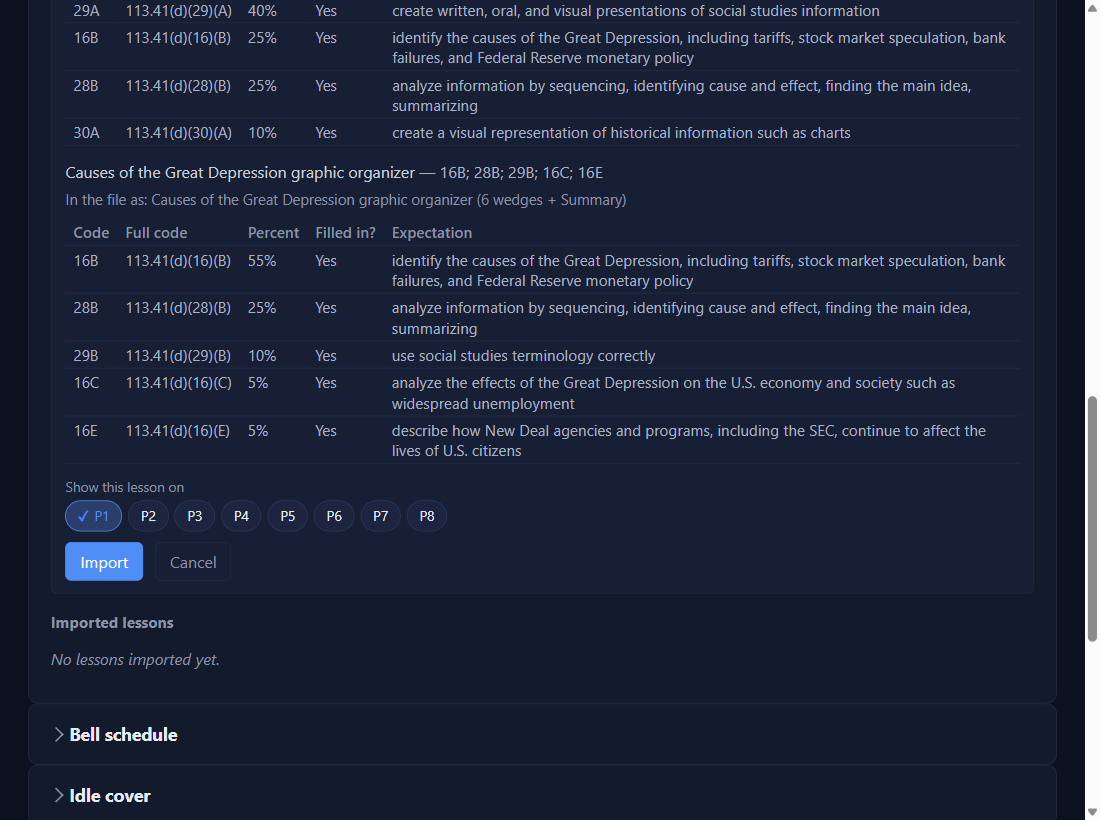
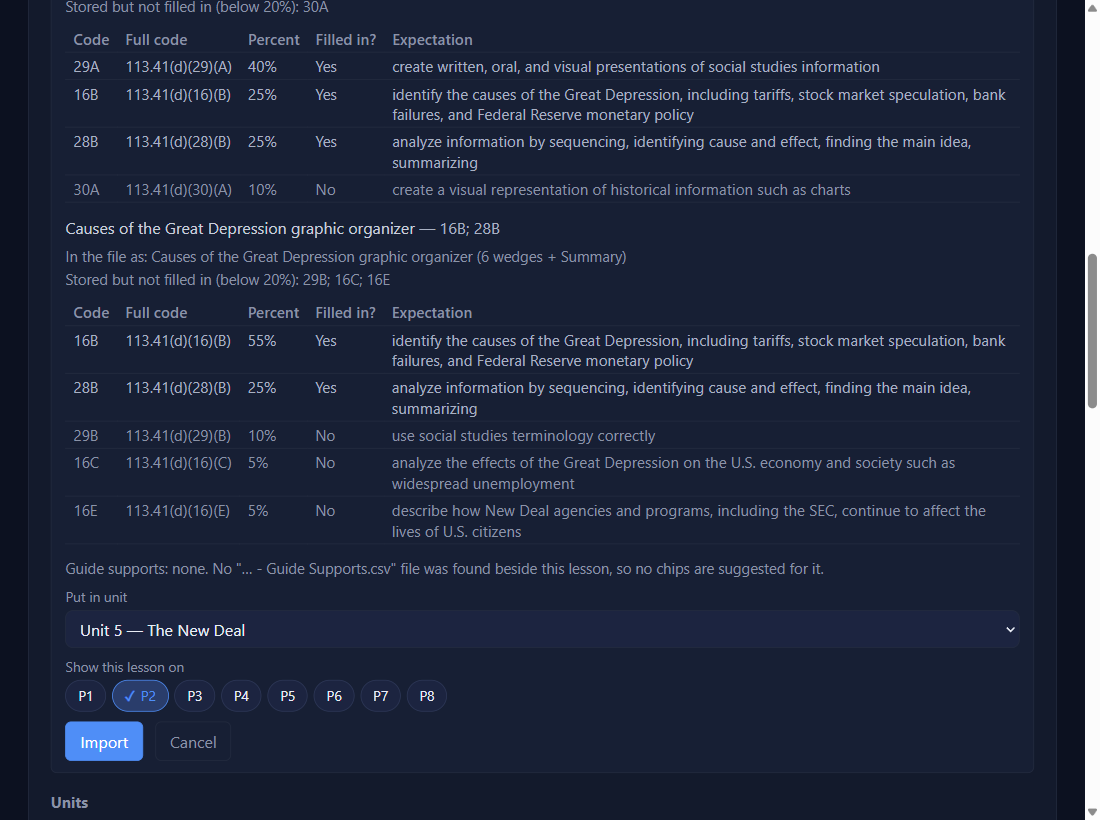
Lessons for 0.4.22: units, Put in unit, the three-step Lesson activity pop-up, several activities per visit
New lesson units.html (Organize lessons into units). Import a lesson updated with new
pictures; August notes the backup-folder message. Stamp ?v=20261029a; 30 lessons.

diff --git a/index.html b/index.html
@@ -186,7 +186,7 @@
 <div class="hero">
   <div class="hero-inner">
     <div>
-      <div class="eyebrow"><span class="dot"></span>Matches SpEd Log Pro 0.4.21</div>
+      <div class="eyebrow"><span class="dot"></span>Matches SpEd Log Pro 0.4.22</div>
       <h1>Log the day in minutes.<br><span class="grad">Paste the service log in seconds.</span></h1>
       <p class="lede">Short, picture-by-picture lessons for every job in SpEd Log Pro, with the exact spot to click
          circled in red. Start with setup, or jump straight to what you need today.</p>
@@ -226,7 +226,7 @@
   <div class="stat"><div class="big">1 click</div><p>to save a whole class for the day</p></div>
   <div class="stat"><div class="big">1 paste</div><p>per student per week into the real service log</p></div>
   <div class="stat"><div class="big">0 bytes</div><p>leave your computer. No internet, no accounts</p></div>
-  <div class="stat"><div class="big">29</div><p>bite-size lessons, each with real screenshots</p></div>
+  <div class="stat"><div class="big">30</div><p>bite-size lessons, each with real screenshots</p></div>
 </div>
 
 <section class="wrap" id="start">
@@ -261,7 +261,7 @@
       <ul><li><a href="lessons/add-students.html">Add a student</a> <small>3 min</small></li><li><a href="lessons/two-classes.html">A student in two classes</a> <small>5 min</small></li><li><a href="lessons/leaves.html">Leaves or comes back</a> <small>4 min</small></li></ul></div>
     <div class="tile t-purple" href="#"><div class="ic"><svg width="22" height="22" viewBox="0 0 24 24" fill="none" stroke="currentColor" stroke-width="2.2"><circle cx="12" cy="12" r="9"/><circle cx="12" cy="12" r="5"/><circle cx="12" cy="12" r="1"/></svg></div>
       <h3>Goals</h3><p>Track progress without the paperwork.</p>
-      <ul><li><a href="lessons/goal-setup.html">Set up goal tracking</a> <small>6 min</small></li><li><span><a href="lessons/goal-project.html">Set up a Goal Setup project</a><span class="newburst" title="New in version 0.4.20"><span class="burst">NEW</span><small>for version 0.4.20 and beyond</small></span></span> <small>5 min</small></li><li><span><a href="lessons/goal-import.html">Import a goal setup</a><span class="newburst" title="New in version 0.4.20"><span class="burst">NEW</span><small>for version 0.4.20 and beyond</small></span></span> <small>3 min</small></li><li><span><a href="lessons/goal-writer.html">Write a measurable goal</a><span class="newburst" title="New in version 0.4.21"><span class="burst">NEW</span><small>for version 0.4.21 and beyond</small></span></span> <small>5 min</small></li><li><a href="lessons/progress.html">Record progress</a> <small>3 min</small></li><li><span><a href="lessons/progress-report.html">Write a progress report</a><span class="newburst" title="New in version 0.4.21"><span class="burst">NEW</span><small>for version 0.4.21 and beyond</small></span></span> <small>2 min</small></li><li><span><a href="lessons/fix-progress.html">Fix or delete recorded progress</a><span class="newburst" title="New in version 0.4.21"><span class="burst">NEW</span><small>for version 0.4.21 and beyond</small></span></span> <small>1 min</small></li><li><a href="lessons/import-lesson.html">Import a lesson</a> <small>4 min</small></li><li><span><a href="lessons/builder.html">Set up the Leveled Guide Builder</a><span class="newburst" title="New in version 0.4.18"><span class="burst">NEW</span><small>for version 0.4.18 and beyond</small></span></span> <small>10 min</small></li><li><span><a href="lessons/guides-setup.html">Leveled guides: set up</a><span class="newburst" title="New in version 0.4.18"><span class="burst">NEW</span><small>for version 0.4.18 and beyond</small></span></span> <small>4 min</small></li><li><span><a href="lessons/guides-day.html">Leveled guides: log the day</a><span class="newburst" title="New in version 0.4.18"><span class="burst">NEW</span><small>for version 0.4.18 and beyond</small></span></span> <small>3 min</small></li></ul></div>
+      <ul><li><a href="lessons/goal-setup.html">Set up goal tracking</a> <small>6 min</small></li><li><span><a href="lessons/goal-project.html">Set up a Goal Setup project</a><span class="newburst" title="New in version 0.4.20"><span class="burst">NEW</span><small>for version 0.4.20 and beyond</small></span></span> <small>5 min</small></li><li><span><a href="lessons/goal-import.html">Import a goal setup</a><span class="newburst" title="New in version 0.4.20"><span class="burst">NEW</span><small>for version 0.4.20 and beyond</small></span></span> <small>3 min</small></li><li><span><a href="lessons/goal-writer.html">Write a measurable goal</a><span class="newburst" title="New in version 0.4.21"><span class="burst">NEW</span><small>for version 0.4.21 and beyond</small></span></span> <small>5 min</small></li><li><a href="lessons/progress.html">Record progress</a> <small>3 min</small></li><li><span><a href="lessons/progress-report.html">Write a progress report</a><span class="newburst" title="New in version 0.4.21"><span class="burst">NEW</span><small>for version 0.4.21 and beyond</small></span></span> <small>2 min</small></li><li><span><a href="lessons/fix-progress.html">Fix or delete recorded progress</a><span class="newburst" title="New in version 0.4.21"><span class="burst">NEW</span><small>for version 0.4.21 and beyond</small></span></span> <small>1 min</small></li><li><a href="lessons/import-lesson.html">Import a lesson</a> <small>5 min</small></li><li><span><a href="lessons/units.html">Organize lessons into units</a><span class="newburst" title="New in version 0.4.22"><span class="burst">NEW</span><small>for version 0.4.22 and beyond</small></span></span> <small>3 min</small></li><li><span><a href="lessons/builder.html">Set up the Leveled Guide Builder</a><span class="newburst" title="New in version 0.4.18"><span class="burst">NEW</span><small>for version 0.4.18 and beyond</small></span></span> <small>10 min</small></li><li><span><a href="lessons/guides-setup.html">Leveled guides: set up</a><span class="newburst" title="New in version 0.4.18"><span class="burst">NEW</span><small>for version 0.4.18 and beyond</small></span></span> <small>4 min</small></li><li><span><a href="lessons/guides-day.html">Leveled guides: log the day</a><span class="newburst" title="New in version 0.4.18"><span class="burst">NEW</span><small>for version 0.4.18 and beyond</small></span></span> <small>3 min</small></li></ul></div>
     <div class="tile t-red" href="#"><div class="ic"><svg width="22" height="22" viewBox="0 0 24 24" fill="none" stroke="currentColor" stroke-width="2.2"><rect x="3" y="4" width="18" height="17" rx="2"/><path d="M16 2v4M8 2v4M3 10h18"/></svg></div>
       <h3>When the IEP changes</h3><p>ARDs, minutes, accommodations.</p>
       <ul><li><a href="lessons/ard.html">Enter an ARD change</a> <small>4 min</small></li><li><a href="lessons/accommodations.html">Edit accommodations</a> <small>3 min</small></li><li><a href="lessons/ard.html">Next ARD date</a> <small>1 min</small></li></ul></div>
@@ -280,11 +280,11 @@
 </div>
 
 <footer><div class="in">
-  <span>© 2026 J. Scott. All rights reserved. · SpEd Log Pro Training, for SpEd Log Pro 0.4.21 · all students shown are made up</span>
+  <span>© 2026 J. Scott. All rights reserved. · SpEd Log Pro Training, for SpEd Log Pro 0.4.22 · all students shown are made up</span>
   <span>Questions? Ask the person who sent you this link.</span>
 </div></footer>
 
-<script src="assets/lessons.js?v=20261025a"></script>
+<script src="assets/lessons.js?v=20261029a"></script>
 <script>
   // 60-second tour: each frame shows a real screenshot with the click circled in red.
   const frames = [
@@ -320,7 +320,7 @@
     ['Minutes report', 'Paste & report', 'minutes compliance short adjusted full period print pdf', 'lessons/minutes.html'], ['Accommodations report', 'Paste & report', 'declined accommodations used when offered delivered days present print pdf ARD', 'lessons/acc-report.html'],
     ['Your roster: make it, download it, drop it in', 'Start here', 'roster csv sheet download folder columns headings', 'lessons/roster.html'], ['A student in two classes', 'Students', 'two classes co-teach suffix period', 'lessons/two-classes.html'],
     ['Student leaves or comes back', 'Students', 'remove restore archive move period', 'lessons/leaves.html'], ['Set up goal tracking', 'Goals', 'goal TEKS mastery checklist rubric trial fraction goal check annual ARD one method', 'lessons/goal-setup.html'],
-    ['Set up a Goal Setup project', 'Goals', 'goal setup teks finder codes claude project ai prompt csv checklist rubric goal check how to track', 'lessons/goal-project.html', '0.4.20'], ['Import a goal setup', 'Goals', 'import goal setup csv gear file claude new goal new count', 'lessons/goal-import.html', '0.4.20'], ['Write a measurable goal', 'Goals', 'PLAAFP goal writer write IEP goal measurable claude project prompt ARD data sheet', 'lessons/goal-writer.html', '0.4.21'], ['Record goal progress', 'Goals', 'alert flag progress trials open alerts work through all score later waiting skip look for goal check none of these yet new goal new count record progress', 'lessons/progress.html'], ['Write a progress report', 'Goals', 'progress report statement copy percentage last 5 reminder', 'lessons/progress-report.html', '0.4.21'], ['Fix or delete recorded progress', 'Goals', 'delete fix undo mistake wrong progress entry typo', 'lessons/fix-progress.html', '0.4.21'], ['Import a lesson', 'Goals', 'lesson csv TEKS activity look for', 'lessons/import-lesson.html'],
+    ['Set up a Goal Setup project', 'Goals', 'goal setup teks finder codes claude project ai prompt csv checklist rubric goal check how to track', 'lessons/goal-project.html', '0.4.20'], ['Import a goal setup', 'Goals', 'import goal setup csv gear file claude new goal new count', 'lessons/goal-import.html', '0.4.20'], ['Write a measurable goal', 'Goals', 'PLAAFP goal writer write IEP goal measurable claude project prompt ARD data sheet', 'lessons/goal-writer.html', '0.4.21'], ['Record goal progress', 'Goals', 'alert flag progress trials open alerts work through all score later waiting skip look for goal check none of these yet new goal new count record progress', 'lessons/progress.html'], ['Write a progress report', 'Goals', 'progress report statement copy percentage last 5 reminder', 'lessons/progress-report.html', '0.4.21'], ['Fix or delete recorded progress', 'Goals', 'delete fix undo mistake wrong progress entry typo', 'lessons/fix-progress.html', '0.4.21'], ['Import a lesson', 'Goals', 'lesson csv TEKS activity look for put in unit pick several activities added done', 'lessons/import-lesson.html'], ['Organize lessons into units', 'Goals', 'unit units organize group lessons long list rename delete unit newest first', 'lessons/units.html', '0.4.22'],
     ['Set up the Leveled Guide Builder', 'Goals', 'leveled guide builder claude project prompt maker custom teks pdf math english science look for', 'lessons/builder.html', '0.4.18'],
     ['Leveled guides: set up', 'Goals', 'leveled guide supports level builder csv word bank', 'lessons/guides-setup.html', '0.4.18'], ['Leveled guides: log the day', 'Goals', 'leveled guide level L1 L2 L3 large print dot accommodations', 'lessons/guides-day.html', '0.4.18'],
     ['Enter an ARD change', 'When the IEP changes', 'ARD minutes service type paste sheets', 'lessons/ard.html'], ['Edit accommodations', 'When the IEP changes', 'accommodations remove add', 'lessons/accommodations.html'],

diff --git a/lessons/import-lesson.html b/lessons/import-lesson.html
@@ -5,7 +5,7 @@
 <meta name="viewport" content="width=device-width, initial-scale=1">
 <meta name="robots" content="noindex, nofollow">
 <title>Import a lesson · SpEd Log Pro Training</title>
-<link rel="stylesheet" href="../assets/lesson.css?v=20261025a">
+<link rel="stylesheet" href="../assets/lesson.css?v=20261029a">
 </head>
 <body data-lesson="lessons">
 <header class="top">
@@ -30,31 +30,41 @@
       <div class="fig" data-pens="702,330,318,14;701,520,318,14"><img class="shot" src="../images/n-les-5.png" alt="Look for lines in the preview"></div>
     </div></div>
     <div class="step"><div class="num">2</div><div>
-      <h3>Tick the periods that teach it, then Import</h3>
-      <p>Under <b>Show this lesson on</b>, tick at least one period. You can tick more later under Imported lessons.</p>
-      <div class="fig" data-pens="94,516,38,22;104,561,51,27"><img class="shot" src="../images/n-les-2.png" alt="Show this lesson on"></div>
+      <h3>Choose its unit, tick the periods that teach it, then Import</h3>
+      <p><b>Put in unit</b><span class="newburst" title="New in version 0.4.22"><span class="burst">NEW</span><small>for version 0.4.22 and beyond</small></span> starts on the unit of the lesson you imported last; change it if this lesson belongs elsewhere (see <a href="units.html">Organize lessons into units</a>). Under <b>Show this lesson on</b>, tick at least one period. You can tick more later under Imported lessons.</p>
+      <div class="fig" data-pens="542,629,485,25;140,696,34,20;104,741,45,24"><img class="shot" src="../images/n-les-2.png" alt="Put in unit and Show this lesson on"></div>
     </div></div>
     <div class="step"><div class="num">3</div><div>
-      <h3>On the period page: Lesson activity…</h3>
-      <p>Click <b>Lesson activity…</b>, then click the activity. Each shows the codes it fills in.</p>
-      <div class="fig" data-pens="511,242,84,27;542,391,293,35"><img class="shot" src="../images/n-les-3.png" alt="Picking an activity"></div>
+      <h3>On the period page: Lesson activity…, then a unit</h3>
+      <p>Click <b>Lesson activity…</b>.<span class="newburst" title="New in version 0.4.22"><span class="burst">NEW</span><small>for version 0.4.22 and beyond</small></span> It opens on <b>Pick a unit</b>: the units with a lesson for this period, newest first, and <b>No unit</b> last.</p>
+      <div class="fig" data-pens="542,300,289,34"><img class="shot" src="../images/n-les-3.png" alt="Pick a unit"></div>
     </div></div>
     <div class="step"><div class="num">4</div><div>
+      <h3>Pick the lesson</h3>
+      <p>The line under the title shows where you are; click <b>Units</b> in it, or <b>Back</b>, to go back. Each topic is a small grey heading, with Learn It, Comprehend It, then Apply It.</p>
+      <div class="fig" data-pens="542,304,289,14;542,390,289,34;290,546,37,24"><img class="shot" src="../images/n-les-6.png" alt="Pick a lesson"></div>
+    </div></div>
+    <div class="step"><div class="num">5</div><div>
+      <h3>Click each activity you want, then Done</h3>
+      <p>Each activity shows the codes it fills in. Click one and it's added right away; the pop-up <b>stays open</b> and marks it <b>✓ Added</b>, so you can click more, or go Back to another lesson.<span class="newburst" title="New in version 0.4.22"><span class="burst">NEW</span><small>for version 0.4.22 and beyond</small></span> Click <b>Done</b> when you're finished.</p>
+      <div class="fig" data-pens="467,359,41,16;451,441,41,16;792,615,40,24"><img class="shot" src="../images/n-les-7.png" alt="Two activities added"></div>
+    </div></div>
+    <div class="step"><div class="num">6</div><div>
       <h3>The boxes fill in; check them and Save</h3>
-      <p>The activity is <b>added</b> to the Activity boxes and its codes to the TEKS box. Nothing is saved until you click <b>Save</b>.</p>
-      <div class="fig" data-pens="245,242,190,24;727,242,140,24;228,193,92,27"><img class="shot" src="../images/n-les-4.png" alt="Filled in"></div>
+      <p>Each activity is <b>added</b> to the Activity boxes (after a <code>;</code>) and its codes to the TEKS box. Nothing is saved until you click <b>Save</b>.</p>
+      <div class="fig" data-pens="245,242,186,23;727,242,136,23;228,193,86,24"><img class="shot" src="../images/n-les-4.png" alt="Filled in"></div>
     </div></div>
 
     <div class="grid3">
-      <div class="box ok"><h4>✓ You'll know it worked</h4><ul><li><code>Imported "The New Deal - Learn It": 3 activities, 13 codes. Shows on P1.</code></li><li>Picking fills the Activity and TEKS boxes.</li></ul></div>
-      <div class="box bad"><h4>✕ Avoid these</h4><ul><li><b>No period ticked.</b> Import is refused until one is.</li><li><b>Expecting it to replace what you typed.</b> It adds after a <code>;</code>.</li></ul></div>
+      <div class="box ok"><h4>✓ You'll know it worked</h4><ul><li><code>Imported "The New Deal - Learn It": 3 activities, 13 codes. In Unit 5 — The New Deal. Shows on P2.</code></li><li>Picking fills the Activity and TEKS boxes.</li></ul></div>
+      <div class="box bad"><h4>✕ Avoid these</h4><ul><li><b>No period ticked.</b> Import is refused until one is.</li><li><b>Expecting it to replace what you typed.</b> It adds after a <code>;</code>.</li><li><b>Clicking Cancel or Done to undo a pick.</b> They only close the pop-up; delete the text from the box instead.</li></ul></div>
       <div class="box msg"><h4>⚠ If you see this</h4><q>Not imported: "…" has 2 problems. Nothing was saved.</q>Each problem is listed by line number. Fix the file and import again.<q>No lessons for Period … yet.</q>Tick that period for a lesson in Settings → Lesson activities.</div>
     </div>
     <label class="done-row"><input type="checkbox" id="did"> <span><b>I did this.</b> Ticks this lesson off in the menu (saved in this browser only).</span></label>
     <div class="navbtns" id="lesson-nav"></div>
   </main>
 </div>
-<script src="../assets/lessons.js?v=20261025a"></script>
-<script src="../assets/lesson.js?v=20261025a"></script>
+<script src="../assets/lessons.js?v=20261029a"></script>
+<script src="../assets/lesson.js?v=20261029a"></script>
 </body>
 </html>

diff --git a/lessons/units.html b/lessons/units.html
@@ -1,0 +1,57 @@
+<!doctype html>
+<html lang="en">
+<head>
+<meta charset="utf-8">
+<meta name="viewport" content="width=device-width, initial-scale=1">
+<meta name="robots" content="noindex, nofollow">
+<title>Organize lessons into units · SpEd Log Pro Training</title>
+<link rel="stylesheet" href="../assets/lesson.css?v=20261029a">
+</head>
+<body data-lesson="units">
+<header class="top">
+  <a class="logo" href="../"><span class="mark"><i></i><i></i><i></i><i></i></span>SpEd <b>Log</b> Pro <span style="font-weight:500;opacity:.7">Training</span></a>
+  <a class="mini-search" href="../" style="text-decoration:none">🔍 Search lessons…</a>
+</header>
+<div class="layout">
+  <aside id="menu"></aside>
+  <main>
+    <div class="hero">
+      <button class="print" onclick="window.print()">🖨 Print this lesson</button>
+      <div class="crumbs">Goals</div>
+      <h1>Organize lessons into <span>units</span></h1>
+      <div class="facts"><span class="fact">⏱ About 3 minutes</span><span class="fact">🔁 Once per unit</span><span class="fact">You need: a few imported lessons</span></div>
+    </div>
+    <div class="why"><b>Why:</b> as the year goes on, the lesson list gets long. Units group your lessons, and the newest unit (highest number) is always at the top, so the unit you're teaching now is the first thing you see in <b>Lesson activity…</b>. Haven't imported a lesson yet? Start with <a href="import-lesson.html">Import a lesson</a>.</div>
+    <div class="step"><div class="num">1</div><div>
+      <h3>Settings → Lesson activities → Units: Add unit</h3>
+      <p>Type the unit's number (1 to 99) and, if you like, its name, then click <b>Add unit</b>. The name is optional: with none it's just <code>Unit 6</code>. The new unit shows at the top of <b>Imported lessons</b>, saying it has no lessons yet.</p>
+      <div class="fig" data-pens="542,119,502,26;542,156,502,17;542,246,495,30"><img class="shot" src="../images/n-unit-1.png" alt="Add unit"></div>
+    </div></div>
+    <div class="step"><div class="num">2</div><div>
+      <h3>Put each lesson in its unit</h3>
+      <p>Every lesson has a <b>Unit</b> dropdown on its title bar. Choose the unit, and the lesson moves there right away. Its period ticks and activities don't change. Lessons you had before units start in <b>No unit</b>, at the bottom.</p>
+      <div class="fig" data-pens="542,48,502,17;459,552,122,23"><img class="shot" src="../images/n-unit-2.png" alt="A lesson's Unit dropdown"></div>
+    </div></div>
+    <div class="step"><div class="num">3</div><div>
+      <h3>Rename or delete a unit</h3>
+      <p><b>Rename</b> opens the number and name in two boxes; change them and click <b>Save</b>. <b>Delete unit</b> asks first, then moves its lessons to <b>No unit</b>. No lesson or activity is ever deleted with it.</p>
+      <div class="fig" data-pens="472,326,51,25;576,326,61,25;551,377,476,25"><img class="shot" src="../images/n-unit-3.png" alt="Rename and Delete unit"></div>
+    </div></div>
+    <div class="step"><div class="num">4</div><div>
+      <h3>New lessons go straight into a unit</h3>
+      <p>When you import a lesson, <b>Put in unit</b> starts on the unit of the lesson you imported last, so a run of lessons from one unit goes in together. See <a href="import-lesson.html">Import a lesson</a>.</p>
+    </div></div>
+
+    <div class="grid3">
+      <div class="box ok"><h4>✓ You'll know it worked</h4><ul><li><code>Added Unit 6 — World War II.</code></li><li><code>Saved: "…" is in Unit 4 — The Great Depression.</code></li><li><b>Lesson activity…</b> opens on <b>Pick a unit</b>, newest first.</li></ul></div>
+      <div class="box bad"><h4>✕ Avoid these</h4><ul><li><b>Writing "Unit 3" in the name box.</b> The number has its own box; the name is just the topic.</li><li><b>Looking for an empty unit on a period page.</b> The pop-up only lists units with a lesson for that period.</li></ul></div>
+      <div class="box msg"><h4>⚠ If you see this</h4><q>Unit 3 already exists (The Great Depression). Nothing was saved.</q>Each number is used once. Pick another number, or Rename the one you have.</div>
+    </div>
+    <label class="done-row"><input type="checkbox" id="did"> <span><b>I did this.</b> Ticks this lesson off in the menu (saved in this browser only).</span></label>
+    <div class="navbtns" id="lesson-nav"></div>
+  </main>
+</div>
+<script src="../assets/lessons.js?v=20261029a"></script>
+<script src="../assets/lesson.js?v=20261029a"></script>
+</body>
+</html>

diff --git a/lessons/builder.html b/lessons/builder.html
@@ -5,7 +5,7 @@
 <meta name="viewport" content="width=device-width, initial-scale=1">
 <meta name="robots" content="noindex, nofollow">
 <title>Set up the Leveled Guide Builder · SpEd Log Pro Training</title>
-<link rel="stylesheet" href="../assets/lesson.css?v=20261025a">
+<link rel="stylesheet" href="../assets/lesson.css?v=20261029a">
 </head>
 <body data-lesson="builder">
 <header class="top">
@@ -30,9 +30,9 @@
         <div class="pc-callout"><b>Made for U.S. History with the lead4ward curriculum</b> (Learn It · Comprehend It · Apply It lessons with a class-set reading and a handout). It can be used for other subjects, but <b>for best results in any other subject or curriculum, use the Prompt Maker below.</b></div>
         <div class="pc-sub">10 pages · you fill in your course, grade, and large print yes/no, and paste your TEKS</div>
         <div class="pc-btns">
-          <button type="button" class="pc-copy" data-src="../assets/leveled-guide-builder-prompt.txt?v=20261025a">📋 Copy the prompt</button>
-          <a class="pc-link" href="../assets/leveled-guide-builder-prompt.pdf?v=20261025a" target="_blank" rel="noopener">Open the PDF</a>
-          <a class="pc-link" href="../assets/leveled-guide-builder-prompt.txt?v=20261025a" download="leveled-guide-builder-prompt.txt">Download as text</a>
+          <button type="button" class="pc-copy" data-src="../assets/leveled-guide-builder-prompt.txt?v=20261029a">📋 Copy the prompt</button>
+          <a class="pc-link" href="../assets/leveled-guide-builder-prompt.pdf?v=20261029a" target="_blank" rel="noopener">Open the PDF</a>
+          <a class="pc-link" href="../assets/leveled-guide-builder-prompt.txt?v=20261029a" download="leveled-guide-builder-prompt.txt">Download as text</a>
         </div>
         <div class="pc-msg" role="status"></div>
       </div>
@@ -40,8 +40,8 @@
         <div class="pc-title">🛠 Custom: the Prompt Maker <span class="pc-rec">Recommended for other subjects</span></div>
         <div class="pc-sub">About 10 minutes · Claude asks you questions with choices, then writes a prompt fitted to your subject, curriculum, and lessons</div>
         <div class="pc-btns">
-          <button type="button" class="pc-copy" data-src="../assets/leveled-guide-prompt-maker.txt?v=20261025a">📋 Copy the Prompt Maker</button>
-          <a class="pc-link" href="../assets/leveled-guide-prompt-maker.txt?v=20261025a" download="leveled-guide-prompt-maker.txt">Download as text</a>
+          <button type="button" class="pc-copy" data-src="../assets/leveled-guide-prompt-maker.txt?v=20261029a">📋 Copy the Prompt Maker</button>
+          <a class="pc-link" href="../assets/leveled-guide-prompt-maker.txt?v=20261029a" download="leveled-guide-prompt-maker.txt">Download as text</a>
         </div>
         <div class="pc-msg" role="status"></div>
         <ol class="pc-steps">
@@ -89,8 +89,8 @@
     <div class="navbtns" id="lesson-nav"></div>
   </main>
 </div>
-<script src="../assets/lessons.js?v=20261025a"></script>
-<script src="../assets/lesson.js?v=20261025a"></script>
+<script src="../assets/lessons.js?v=20261029a"></script>
+<script src="../assets/lesson.js?v=20261029a"></script>
 <script>
   // Copy buttons: each copies its text file, clean, in one click. The texts are loaded ahead so the
   // click can copy straight away, through a hidden text box (works in every browser), or the

diff --git a/lessons/august.html b/lessons/august.html
@@ -5,7 +5,7 @@
 <meta name="viewport" content="width=device-width, initial-scale=1">
 <meta name="robots" content="noindex, nofollow">
 <title>August year-end · SpEd Log Pro Training</title>
-<link rel="stylesheet" href="../assets/lesson.css?v=20261025a">
+<link rel="stylesheet" href="../assets/lesson.css?v=20261029a">
 </head>
 <body data-lesson="august">
 <header class="top">
@@ -33,7 +33,7 @@
     </div></div>
     <div class="step"><div class="num">3</div><div>
       <h3>Type CLEAR, click Clear for the new year, and confirm</h3>
-      <p>A backup is taken first, automatically.</p>
+      <p>A backup is taken first, automatically. Under the finished message, a note<span class="newburst" title="New in version 0.4.22"><span class="burst">NEW</span><small>for version 0.4.22 and beyond</small></span> counts the files in your backup folder and names the <code>…_pre-clear.db</code> file just saved: it holds the whole year, so drag it to Google Drive. Once your logs are turned in you can delete older backups in File Explorer (<b>Open backup folder</b>); the app never deletes them itself.</p>
       <div class="fig" data-pens="666,683,364,26;158,721,104,27"><img class="shot" src="../images/n-year-1.png" alt="Type CLEAR"></div>
     </div></div>
     <div class="step"><div class="num">4</div><div>
@@ -42,7 +42,7 @@
     </div></div>
 
     <div class="grid3">
-      <div class="box ok"><h4>✓ You'll know it worked</h4><ul><li><code>Cleared for the new year. A snapshot of the old year was taken first.</code></li><li>The period tabs are empty; Settings and lessons are still there.</li></ul></div>
+      <div class="box ok"><h4>✓ You'll know it worked</h4><ul><li><code>Cleared for the new year. A snapshot of the old year was taken first.</code></li><li>The period tabs are empty; Settings, lessons, and units are still there.</li></ul></div>
       <div class="box bad"><h4>✕ Avoid these</h4><ul><li><b>Skipping the Drive copy.</b> It's your record of last year.</li><li><b>Doing it before the year is really over.</b> Paste your last weeks into the service logs first.</li></ul></div>
       <div class="box msg"><h4>⚠ If you see this</h4><q>The year-end clear did NOT run and nothing was deleted.</q>Nothing was lost. Try again, or ask for help with the reason it gives.</div>
     </div>
@@ -50,7 +50,7 @@
     <div class="navbtns" id="lesson-nav"></div>
   </main>
 </div>
-<script src="../assets/lessons.js?v=20261025a"></script>
-<script src="../assets/lesson.js?v=20261025a"></script>
+<script src="../assets/lessons.js?v=20261029a"></script>
+<script src="../assets/lesson.js?v=20261029a"></script>
 </body>
 </html>

diff --git a/lessons/goal-writer.html b/lessons/goal-writer.html
@@ -5,7 +5,7 @@
 <meta name="viewport" content="width=device-width, initial-scale=1">
 <meta name="robots" content="noindex, nofollow">
 <title>Write a measurable goal · SpEd Log Pro Training</title>
-<link rel="stylesheet" href="../assets/lesson.css?v=20261025a">
+<link rel="stylesheet" href="../assets/lesson.css?v=20261029a">
 </head>
 <body data-lesson="goalwriter">
 <header class="top">
@@ -29,8 +29,8 @@
         <div class="pc-title">✍ PLAAFP Goal Writer prompt</div>
         <div class="pc-sub">4 pages · any subject · nothing to fill in</div>
         <div class="pc-btns">
-          <button type="button" class="pc-copy" data-src="../assets/plaafp-goal-writer-prompt.txt?v=20261025a">📋 Copy the prompt</button>
-          <a class="pc-link" href="../assets/plaafp-goal-writer-prompt.txt?v=20261025a" download="plaafp-goal-writer-prompt.txt">Download as text</a>
+          <button type="button" class="pc-copy" data-src="../assets/plaafp-goal-writer-prompt.txt?v=20261029a">📋 Copy the prompt</button>
+          <a class="pc-link" href="../assets/plaafp-goal-writer-prompt.txt?v=20261029a" download="plaafp-goal-writer-prompt.txt">Download as text</a>
         </div>
         <div class="pc-msg" role="status"></div>
       </div>
@@ -77,8 +77,8 @@
     <div class="navbtns" id="lesson-nav"></div>
   </main>
 </div>
-<script src="../assets/lessons.js?v=20261025a"></script>
-<script src="../assets/lesson.js?v=20261025a"></script>
+<script src="../assets/lessons.js?v=20261029a"></script>
+<script src="../assets/lesson.js?v=20261029a"></script>
 <script>
   // Copy button: copies the prompt's text file, clean, in one click.
   function fallbackCopy(text) {

diff --git a/lessons/goal-project.html b/lessons/goal-project.html
@@ -5,7 +5,7 @@
 <meta name="viewport" content="width=device-width, initial-scale=1">
 <meta name="robots" content="noindex, nofollow">
 <title>Set up a Goal Setup project · SpEd Log Pro Training</title>
-<link rel="stylesheet" href="../assets/lesson.css?v=20261025a">
+<link rel="stylesheet" href="../assets/lesson.css?v=20261029a">
 </head>
 <body data-lesson="goalproject">
 <header class="top">
@@ -29,8 +29,8 @@
         <div class="pc-title">🎯 Goal Setup prompt</div>
         <div class="pc-sub">4 pages · any subject · you fill in your course and add your TEKS once</div>
         <div class="pc-btns">
-          <button type="button" class="pc-copy" data-src="../assets/goal-setup-prompt.txt?v=20261025a">📋 Copy the prompt</button>
-          <a class="pc-link" href="../assets/goal-setup-prompt.txt?v=20261025a" download="goal-setup-prompt.txt">Download as text</a>
+          <button type="button" class="pc-copy" data-src="../assets/goal-setup-prompt.txt?v=20261029a">📋 Copy the prompt</button>
+          <a class="pc-link" href="../assets/goal-setup-prompt.txt?v=20261029a" download="goal-setup-prompt.txt">Download as text</a>
         </div>
         <div class="pc-msg" role="status"></div>
       </div>
@@ -65,8 +65,8 @@
     <div class="navbtns" id="lesson-nav"></div>
   </main>
 </div>
-<script src="../assets/lessons.js?v=20261025a"></script>
-<script src="../assets/lesson.js?v=20261025a"></script>
+<script src="../assets/lessons.js?v=20261029a"></script>
+<script src="../assets/lesson.js?v=20261029a"></script>
 <script>
   // Copy button: copies the prompt's text file, clean, in one click.
   function fallbackCopy(text) {

diff --git a/assets/lessons.js b/assets/lessons.js
@@ -24,7 +24,8 @@ window.LESSONS = [
   { group: 'Goals', id: 'progress', title: 'Record goal progress', url: 'progress.html', minutes: 3 },
   { group: 'Goals', id: 'progressreport', title: 'Write a progress report', url: 'progress-report.html', minutes: 2, newIn: '0.4.21' },
   { group: 'Goals', id: 'fixprogress', title: 'Fix or delete recorded progress', url: 'fix-progress.html', minutes: 1, newIn: '0.4.21' },
-  { group: 'Goals', id: 'lessons', title: 'Import a lesson', url: 'import-lesson.html', minutes: 4 },
+  { group: 'Goals', id: 'lessons', title: 'Import a lesson', url: 'import-lesson.html', minutes: 5 },
+  { group: 'Goals', id: 'units', title: 'Organize lessons into units', url: 'units.html', minutes: 3, newIn: '0.4.22' },
   { group: 'Goals', id: 'builder', title: 'Set up the Leveled Guide Builder', url: 'builder.html', minutes: 10, newIn: '0.4.18' },
   { group: 'Goals', id: 'guidesetup', title: 'Leveled guides: set up', url: 'guides-setup.html', minutes: 4, newIn: '0.4.18' },
   { group: 'Goals', id: 'guideday', title: 'Leveled guides: log the day', url: 'guides-day.html', minutes: 3, newIn: '0.4.18' },

diff --git a/lessons/update.html b/lessons/update.html
@@ -5,7 +5,7 @@
 <meta name="viewport" content="width=device-width, initial-scale=1">
 <meta name="robots" content="noindex, nofollow">
 <title>Update to a new version · SpEd Log Pro Training</title>
-<link rel="stylesheet" href="../assets/lesson.css?v=20261025a">
+<link rel="stylesheet" href="../assets/lesson.css?v=20261029a">
 <style>
   /* Drawings of the Windows and browser warning screens (this lesson only). */
   .ss { background:#0f62c4; color:#fff; border-radius:10px; padding:22px 24px 18px; font:14px "Segoe UI", sans-serif; min-height:220px; display:flex; flex-direction:column; }
@@ -118,7 +118,7 @@
     <div class="navbtns" id="lesson-nav"></div>
   </main>
 </div>
-<script src="../assets/lessons.js?v=20261025a"></script>
-<script src="../assets/lesson.js?v=20261025a"></script>
+<script src="../assets/lessons.js?v=20261029a"></script>
+<script src="../assets/lesson.js?v=20261029a"></script>
 </body>
 </html>

diff --git a/lessons/roster.html b/lessons/roster.html
@@ -5,7 +5,7 @@
 <meta name="viewport" content="width=device-width, initial-scale=1">
 <meta name="robots" content="noindex, nofollow">
 <title>Your roster: make it, download it, drop it in · SpEd Log Pro Training</title>
-<link rel="stylesheet" href="../assets/lesson.css?v=20261025a">
+<link rel="stylesheet" href="../assets/lesson.css?v=20261029a">
 </head>
 <body data-lesson="roster">
 <header class="top">
@@ -136,7 +136,7 @@
     <div class="navbtns" id="lesson-nav"></div>
   </main>
 </div>
-<script src="../assets/lessons.js?v=20261025a"></script>
-<script src="../assets/lesson.js?v=20261025a"></script>
+<script src="../assets/lessons.js?v=20261029a"></script>
+<script src="../assets/lesson.js?v=20261029a"></script>
 </body>
 </html>

diff --git a/lessons/fix-progress.html b/lessons/fix-progress.html
@@ -5,7 +5,7 @@
 <meta name="viewport" content="width=device-width, initial-scale=1">
 <meta name="robots" content="noindex, nofollow">
 <title>Fix or delete recorded progress · SpEd Log Pro Training</title>
-<link rel="stylesheet" href="../assets/lesson.css?v=20261025a">
+<link rel="stylesheet" href="../assets/lesson.css?v=20261029a">
 </head>
 <body data-lesson="fixprogress">
 <header class="top">
@@ -52,7 +52,7 @@
     <div class="navbtns" id="lesson-nav"></div>
   </main>
 </div>
-<script src="../assets/lessons.js?v=20261025a"></script>
-<script src="../assets/lesson.js?v=20261025a"></script>
+<script src="../assets/lessons.js?v=20261029a"></script>
+<script src="../assets/lesson.js?v=20261029a"></script>
 </body>
 </html>

diff --git a/lessons/progress-report.html b/lessons/progress-report.html
@@ -5,7 +5,7 @@
 <meta name="viewport" content="width=device-width, initial-scale=1">
 <meta name="robots" content="noindex, nofollow">
 <title>Write a progress report · SpEd Log Pro Training</title>
-<link rel="stylesheet" href="../assets/lesson.css?v=20261025a">
+<link rel="stylesheet" href="../assets/lesson.css?v=20261029a">
 </head>
 <body data-lesson="progressreport">
 <header class="top">
@@ -53,7 +53,7 @@
     <div class="navbtns" id="lesson-nav"></div>
   </main>
 </div>
-<script src="../assets/lessons.js?v=20261025a"></script>
-<script src="../assets/lesson.js?v=20261025a"></script>
+<script src="../assets/lessons.js?v=20261029a"></script>
+<script src="../assets/lesson.js?v=20261029a"></script>
 </body>
 </html>
